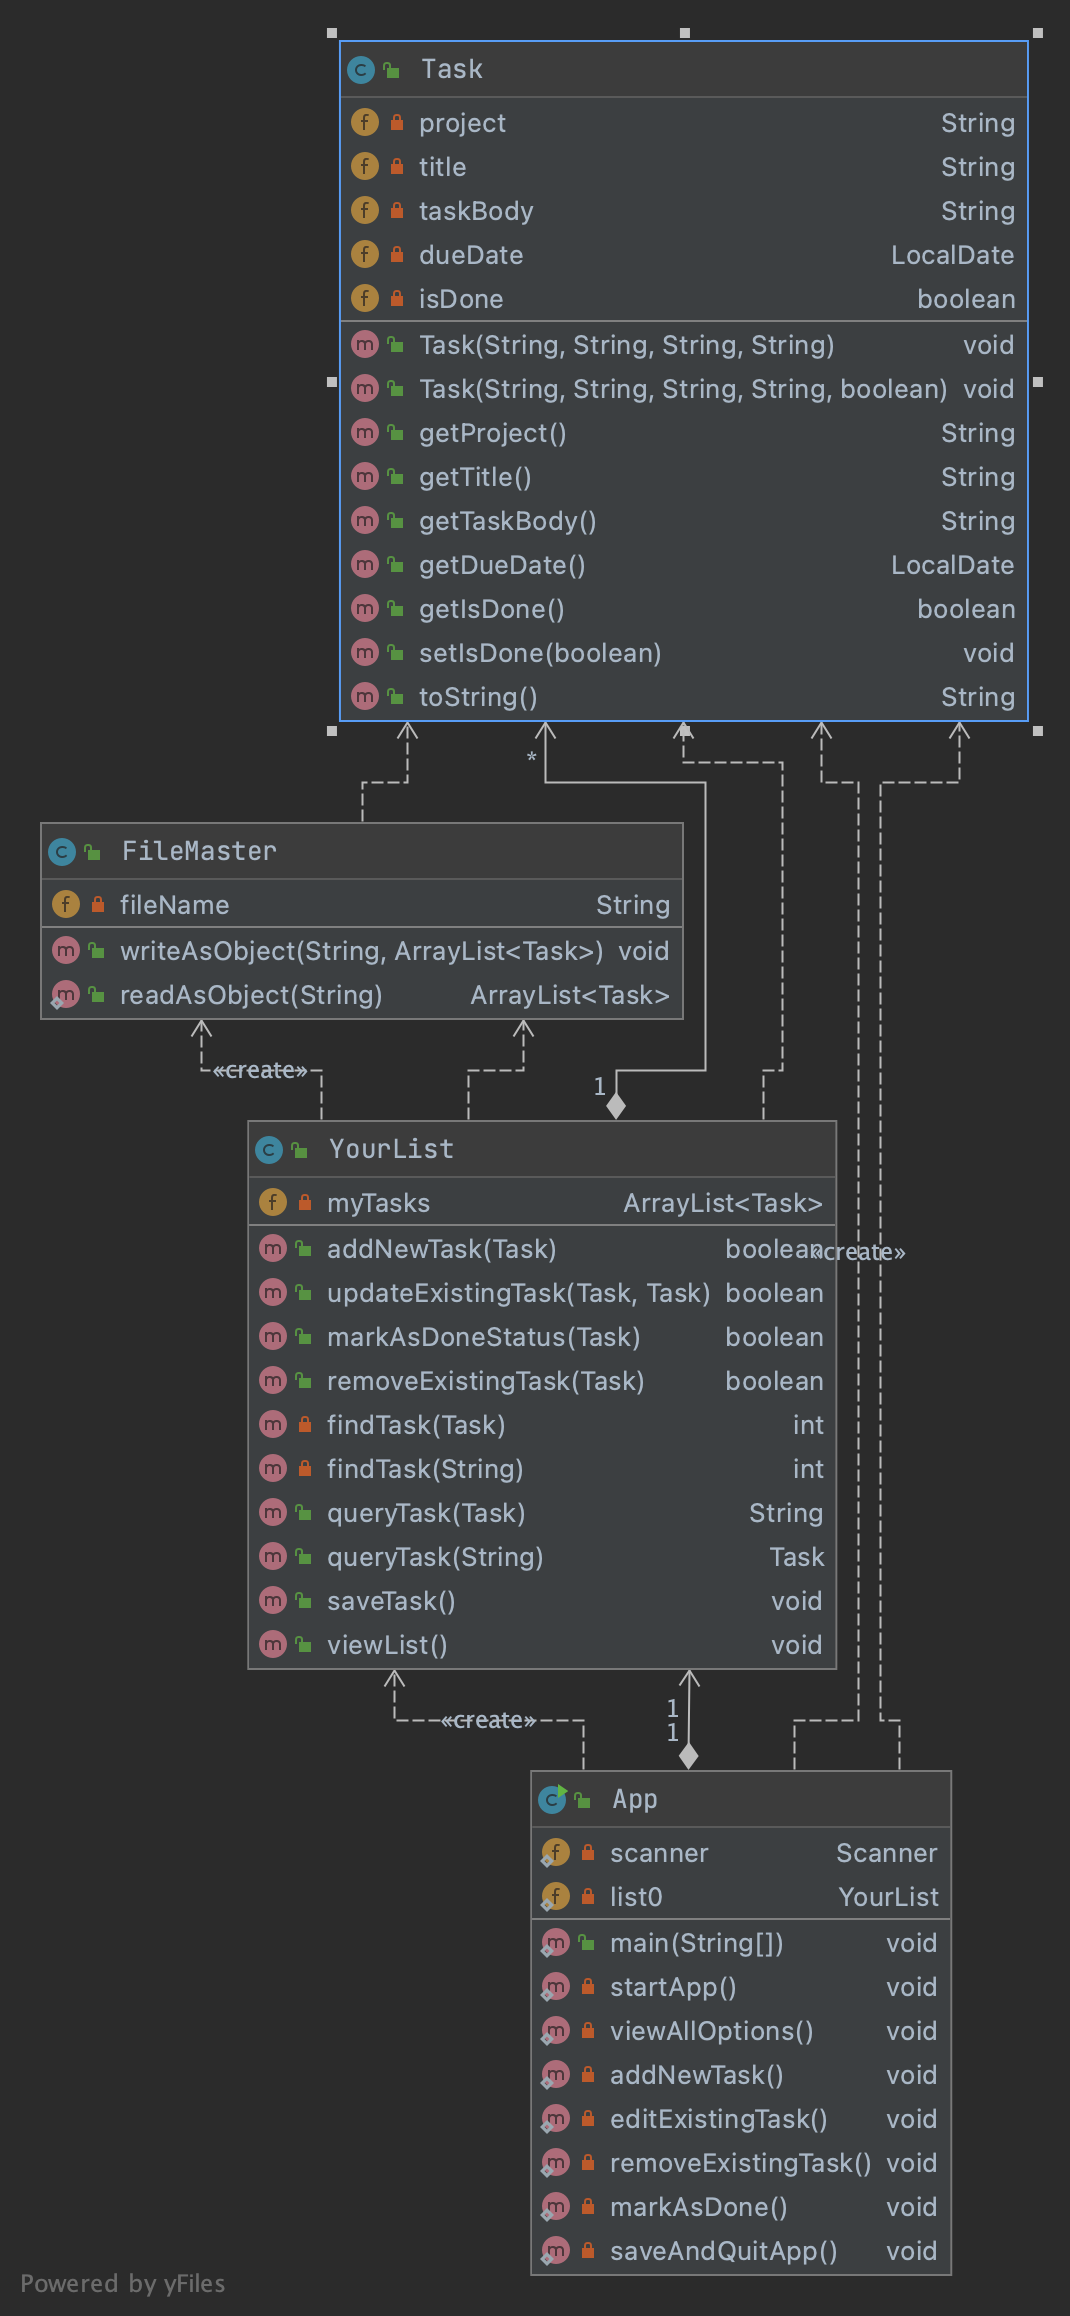
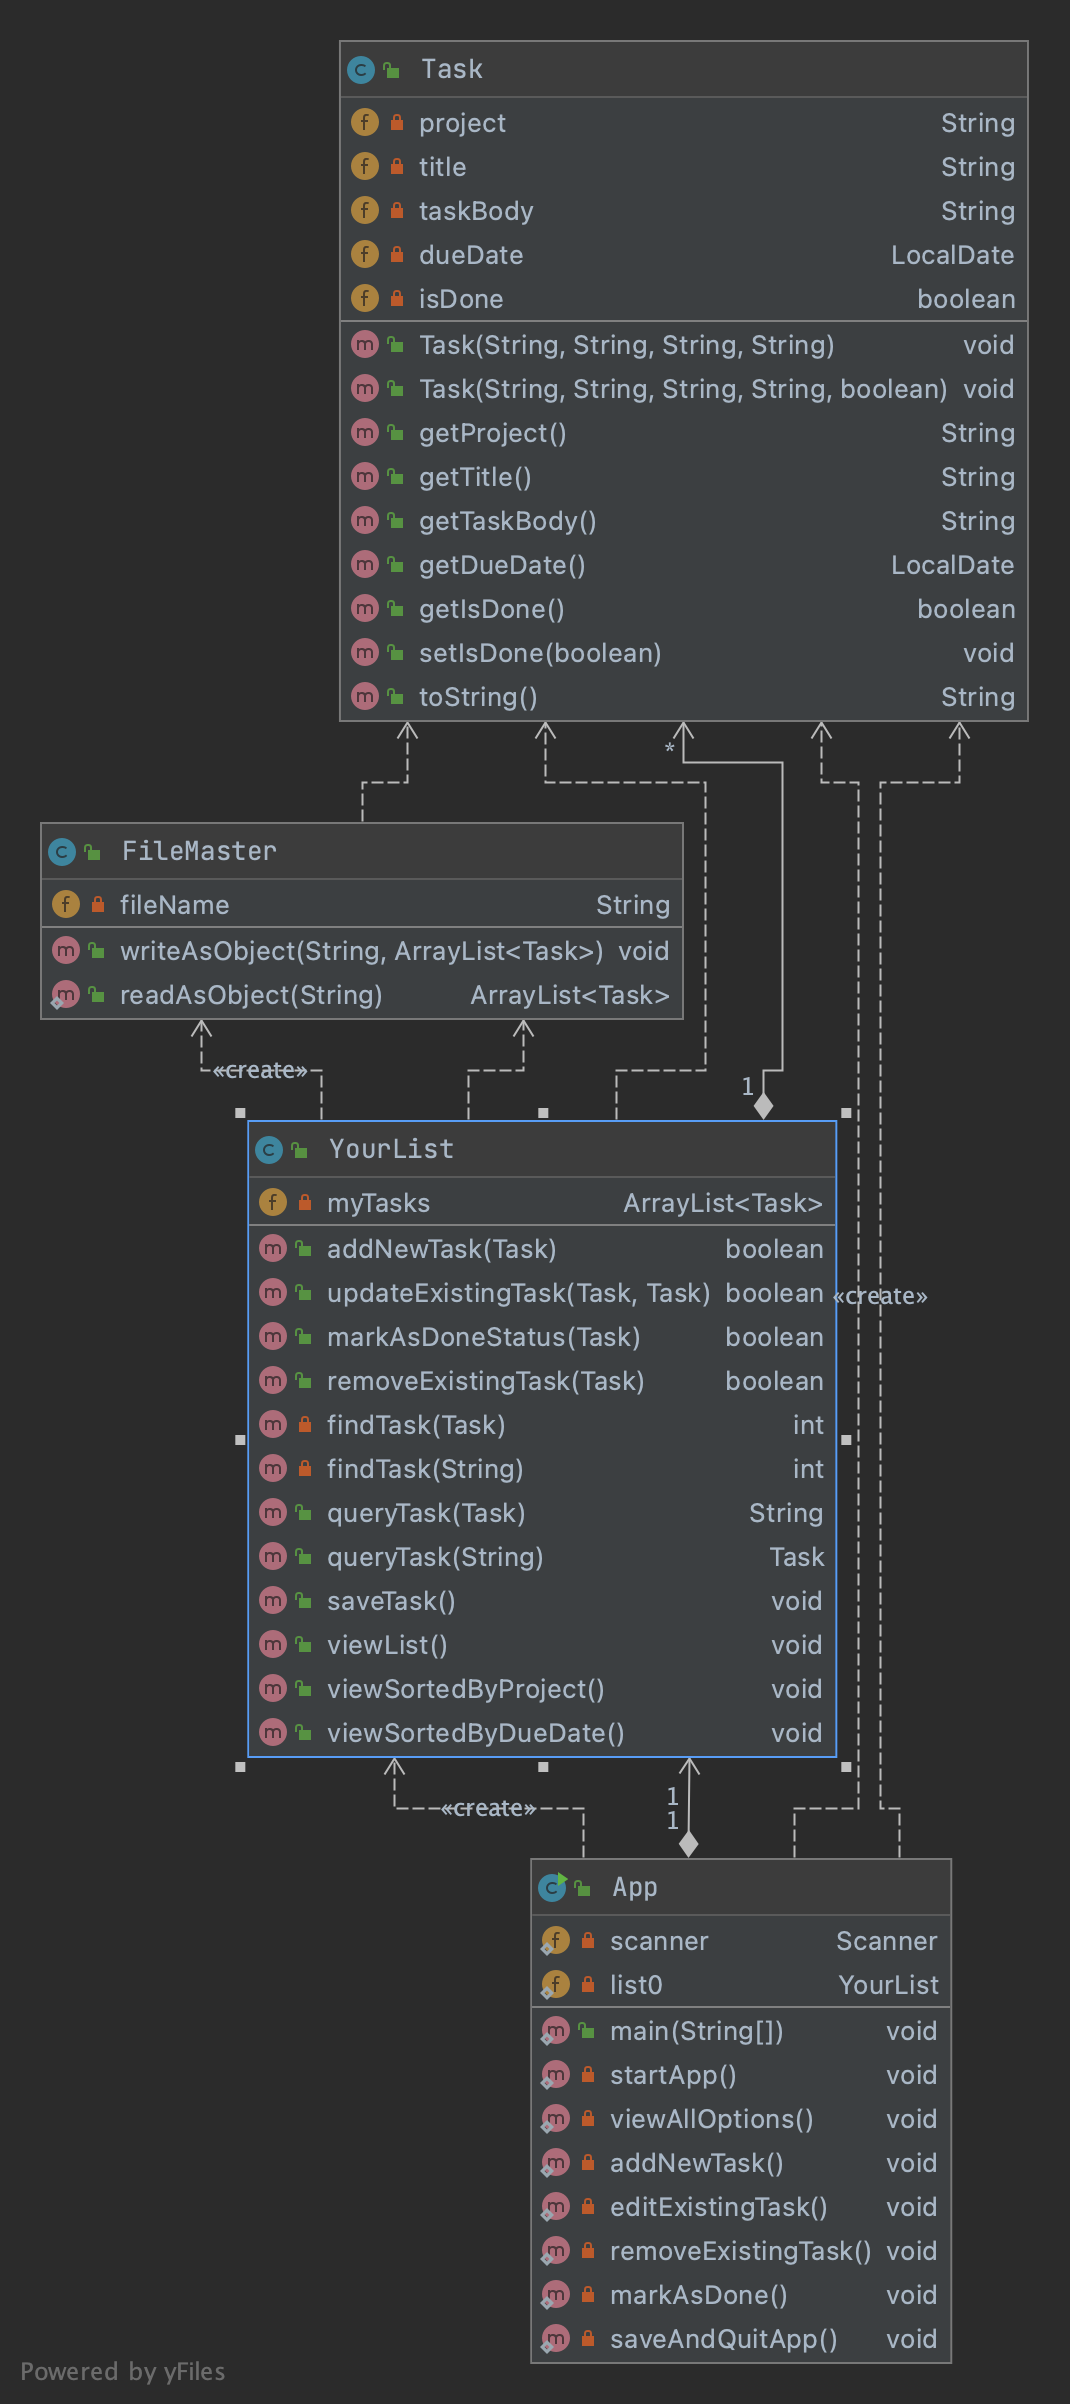
Methods viewSortedByDate and viewSortedByProject are added, and made them available in the switch menu. +Updated the diagram and README.md

diff --git a/app/src/main/java/AwesomeToDoLyOnGradle/App.java b/app/src/main/java/AwesomeToDoLyOnGradle/App.java
@@ -41,8 +41,12 @@ public class App {
                             addNewTask();
                             break;
 
-                        case 2:
-                            list0.viewList();
+                        case 21:
+                            list0.viewSortedByProject();
+                            break;
+
+                        case 22:
+                            list0.viewSortedByDueDate();
                             break;
 
                         case 3:
@@ -82,7 +86,8 @@ public class App {
         System.out.println("" + "WELCOME TO TODOLY!\n"
                 + "Here is what you can do:");
         System.out.println("(1) Add New Task\n"
-                + "(2) View Task List\n"
+                + "(21) View Task List By Project\n"
+                + "(22) View Task List By Due Date\n"
                 + "(3) Edit Existing Task\n"
                 + "(4) Remove Existing Task\n"
                 + "(5) View Options\n"
@@ -92,7 +97,7 @@ public class App {
 
     private static void addNewTask () {
         System.out.println("Is it your first time you add a task in ToDoLy? Press 1." +
-                "\nIf you´ve saved tasks before, press 2.");
+                "\nIf you´ve added tasks before, press 2.");
         int choiceFork1 = scanner.nextInt();
         scanner.nextLine();
 
@@ -118,7 +123,7 @@ public class App {
             break;
 
             case 2:
-                list0.viewList();
+                list0.viewSortedByProject();
 
                 System.out.println("Please, give a name to a project to which your task will belong to: ");
                 String project1 = scanner.nextLine();
@@ -146,7 +151,7 @@ public class App {
      * which he/she can see from the displayed whole list of already entered tasks
      * */
     private static void editExistingTask () {
-        list0.viewList();
+        list0.viewSortedByProject();
 
         System.out.println("\nEnter an existing task title: ");
         String title = scanner.nextLine();
@@ -184,7 +189,7 @@ public class App {
      * */
     private static void removeExistingTask() {
 
-        list0.viewList();
+        list0.viewSortedByProject();
 
         System.out.println("Enter an existing task title: ");
         String title = scanner.nextLine();
@@ -203,7 +208,7 @@ public class App {
     }
 
     private static void markAsDone () {
-        list0.viewList();
+        list0.viewSortedByProject();
 
         System.out.println("Enter an existing task title: ");
         String title = scanner.nextLine();
@@ -223,7 +228,7 @@ public class App {
     private static void saveAndQuitApp () {
         System.out.println("Thank you, your tasks are saved now! \n" +
                 "Do you want to save your list and quit ToDoLy? " +
-                "If yes, type a word QUIT.\n If not, enter 5 to view your options again");
+                "If yes, type a word QUIT.\n If not, enter 5 to view your options again.");
     }
 }
 

diff --git a/app/src/main/java/AwesomeToDoLyOnGradle/YourList.java b/app/src/main/java/AwesomeToDoLyOnGradle/YourList.java
@@ -112,15 +112,39 @@ public class YourList implements Serializable {
         // System.out.println("Your first task is: " + checkObject.get(0));
     }
 
-    /**
-     * For a returning user/a user who at least added one task,
-     * a list saved into a file earlier is displayed
-     **/
     public void viewList() {
         FileMaster fileMaster = new FileMaster();
         ArrayList<Task> checkObject = fileMaster.readAsObject("taskAdded.txt"); // to read a file
         System.out.println("The tasks you´ve added so far: " + checkObject);
         this.myTasks = checkObject;
+    }
+
+    /**
+     * For a returning user/a user who at least added one task,
+     * a list saved into a file earlier is displayed.
+     * A list is displayed sorted by project (in ascending order, alphabetically)
+     **/
+    public void viewSortedByProject() {
+        FileMaster fileMaster = new FileMaster();
+        ArrayList<Task> checkObject = fileMaster.readAsObject("taskAdded.txt");
+        this.myTasks = checkObject;
+
+        myTasks.sort(new ProjectSorter());
+        System.out.println("\nYour task list sorted by project:\n" + this.myTasks);
+    }
+
+    /**
+     * For a returning user/a user who at least added one task,
+     * a list can be displayed sorted by due date (in ascending order,
+     * i.e. a list item with the earliest due date displayed first)
+     **/
+    public void viewSortedByDueDate() {
+        FileMaster fileMaster = new FileMaster();
+        ArrayList<Task> checkObject = fileMaster.readAsObject("taskAdded.txt");
+        this.myTasks = checkObject;
+
+        myTasks.sort(new DueDateSorter());
+        System.out.println("\nYour task list sorted by due date:\n" + this.myTasks);
     }
 
 }

diff --git a/app/src/main/java/AwesomeToDoLyOnGradle/Task.java b/app/src/main/java/AwesomeToDoLyOnGradle/Task.java
@@ -72,9 +72,9 @@ public class Task implements Serializable {
 
     @Override
    public String toString() {
-   return "\nTask project: " + project + " , Title: " + title +
-           " , Description: " + taskBody + ", Due date: " + dueDate +
-                ", Status: " + (isDone?"Done":"Not done.\n");
+   return "\nTask project: " + project + ", Title: " + title +
+           ", Description: " + taskBody + ", Due date: " + dueDate +
+                ", Status: " + (isDone?"Done.\n":"Not done.\n");
     }
 
 }

diff --git a/app/src/test/java/AwesomeToDoLyOnGradle/AppTest.java b/app/src/test/java/AwesomeToDoLyOnGradle/AppTest.java
@@ -7,8 +7,8 @@ import org.junit.jupiter.api.Test;
 import static org.junit.jupiter.api.Assertions.*;
 
 class AppTest {
-    @Test void appHasAGreeting() {
-        App classUnderTest = new App();
-        assertNotNull(classUnderTest.getGreeting(), "app should have a greeting");
+    @Test
+    void appHasAGreeting() {
+
     }
 }

diff --git a/app/src/main/java/AwesomeToDoLyOnGradle/DueDateSorter.java b/app/src/main/java/AwesomeToDoLyOnGradle/DueDateSorter.java
@@ -1,0 +1,11 @@
+package AwesomeToDoLyOnGradle;
+
+import java.util.Comparator;
+
+class DueDateSorter implements Comparator<Task> {
+
+    @Override
+    public int compare(Task o1, Task o2) {
+        return o1.getDueDate().compareTo(o2.getDueDate()); //why sorts by project alphabetically again?..
+    }
+}

diff --git a/app/src/main/java/AwesomeToDoLyOnGradle/ProjectSorter.java b/app/src/main/java/AwesomeToDoLyOnGradle/ProjectSorter.java
@@ -1,0 +1,11 @@
+package AwesomeToDoLyOnGradle;
+
+import java.util.Comparator;
+
+public class ProjectSorter implements Comparator<Task> {
+
+    @Override
+    public int compare(Task o1, Task o2) {
+        return o1.getProject().compareToIgnoreCase(o2.getProject());
+    }
+}

diff --git a/README.md b/README.md
@@ -8,25 +8,24 @@ This application can be run directly via Gradle or via a generated jar file.
 ### Run with Gradle
 While in the root folder, start the application with Gradle´s run command:
 
+```
 bash
-
 gradle run --console plain
-
+```
 
 ### Run with jar file
 
 Generate the jar file with Gradle´s build command: 
 
+```
 bash
-
 gradle build
-
+```
 The jar file will be generated in ´build/libs´ which can be run by a Java environment: 
-
+```
 bash
-
 java -jar build/libs/app.jar
-
+```
 ## Usage
 
 You can see the inner Java structure of the app in this UML Class Diagram:
